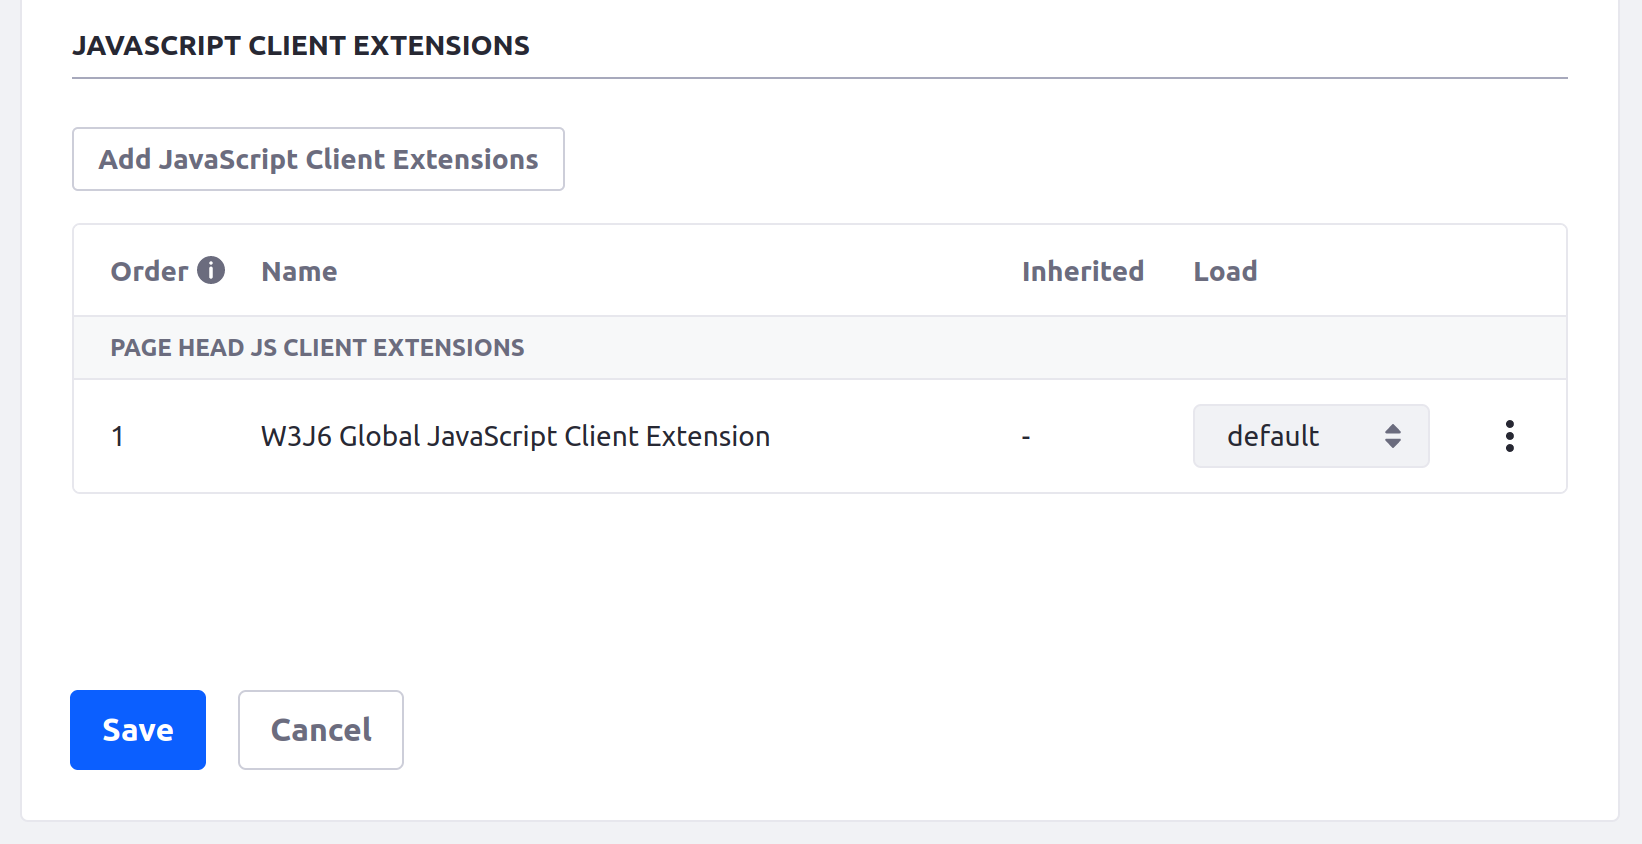
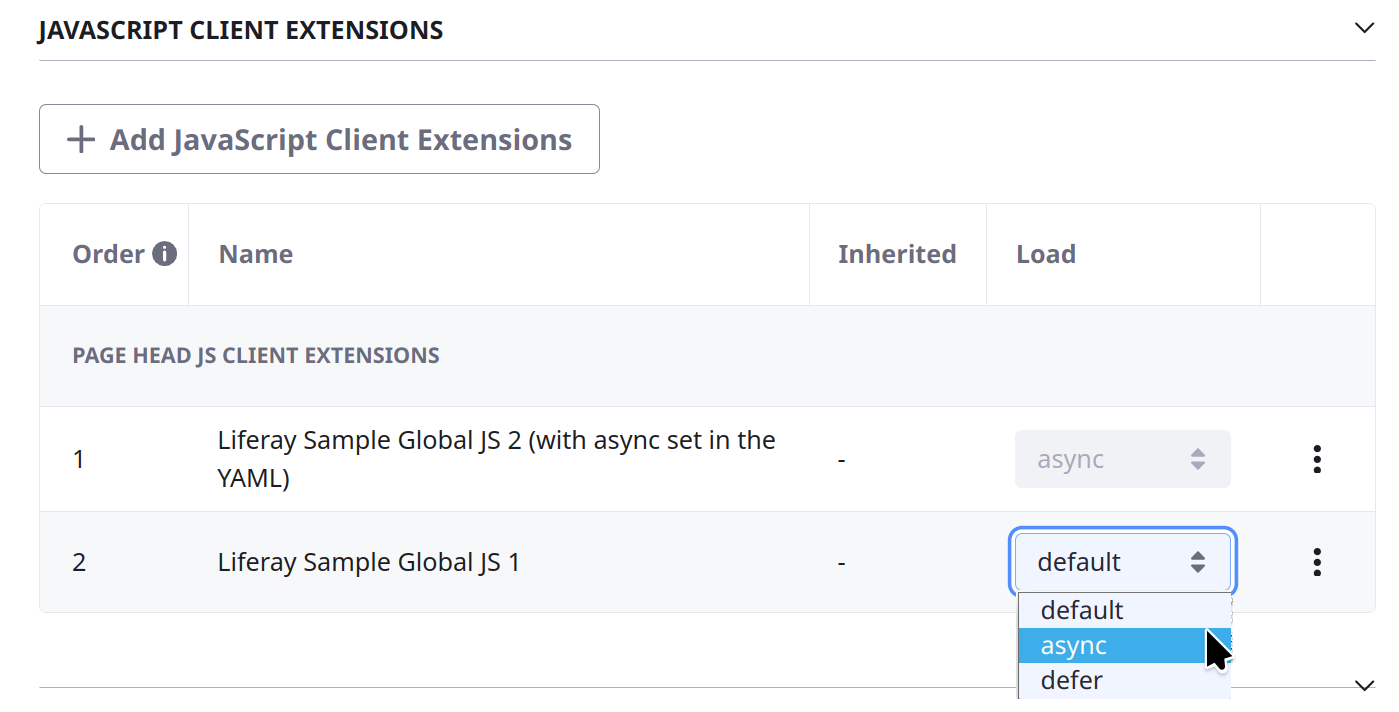
LRDOCS-12708 adding details per sme feedback

diff --git a/docs/dxp/latest/en/liferay-development/customizing-liferays-look-and-feel/using-a-javascript-client-extension/javascript-yaml-configuration-reference.md b/docs/dxp/latest/en/liferay-development/customizing-liferays-look-and-feel/using-a-javascript-client-extension/javascript-yaml-configuration-reference.md
@@ -37,7 +37,7 @@ These properties are specific to JavaScript client extensions:
 | Name | Data Type | Description |
 | :--- | :--- | :--- |
 | `url` | URL | (Required) The path to the JavaScript file added to the HEAD of the page when the client extension is enabled. The complete URI is prefixed by the `baseURL` value. |
-| `scriptElementAttributes` | String | Beginning in Liferay DXP 2024.Q2/Portal 7.4 GA120, you can add attributes to the HTML `script` element in `name: "value"` format. |
+| `scriptElementAttributes` | String | Beginning in Liferay DXP 2024.Q2/Portal 7.4 GA120, you can add string and boolean attributes to the HTML `script` element. Use the format `name: "value"` for strings and `name: value` for booleans. |
 
 See [Frontend Client Extension Properties](../../customizing-liferays-look-and-feel.md#frontend-client-extension-properties) for properties common to all frontend client extensions.
 

diff --git a/docs/dxp/latest/en/liferay-development/customizing-liferays-look-and-feel/using-a-javascript-client-extension.md b/docs/dxp/latest/en/liferay-development/customizing-liferays-look-and-feel/using-a-javascript-client-extension.md
@@ -119,6 +119,9 @@ Configure a page in Liferay to use your deployed client extension:
 
    ![Add the JavaScript client extension. It appears in a list depending on whether you added it to the page head or page bottom.](./using-a-javascript-client-extension/images/02.png)
 
+   !!! note
+       If you set the boolean `async` or `defer` attributes in the client extension, you cannot configure this behavior when adding the client extension to a page (see the above screenshot). If you set both `async` and `defer` in the client extension, the `async` attribute is applied while the `defer` attribute is ignored.
+
 1. Click *Save*.
 
 1. Optionally, publish the page so your JavaScript executes on the page outside of Edit mode.
